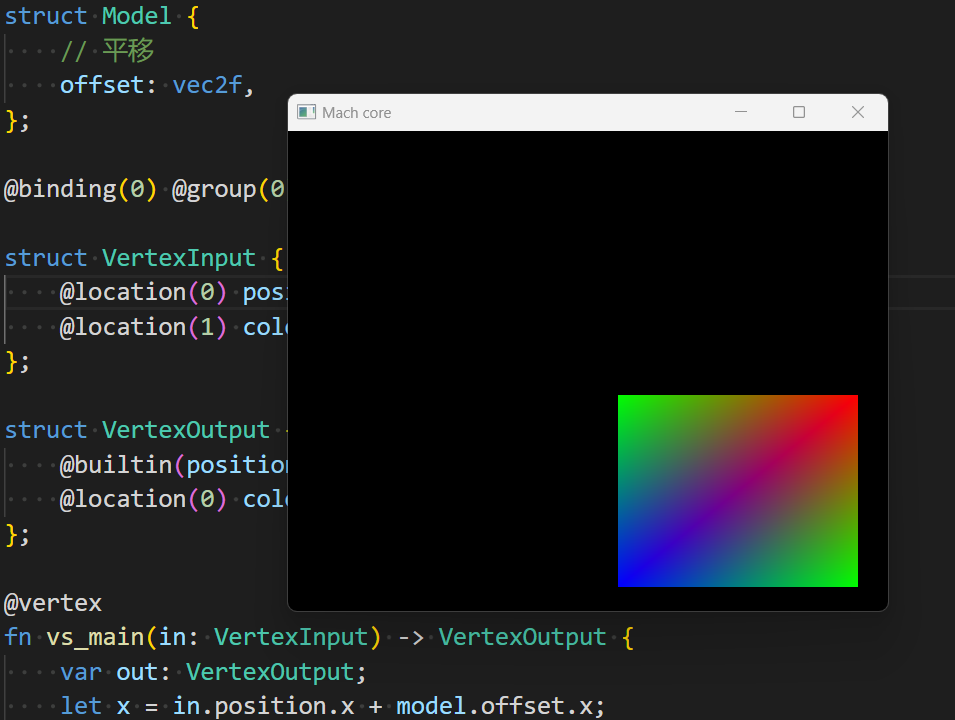
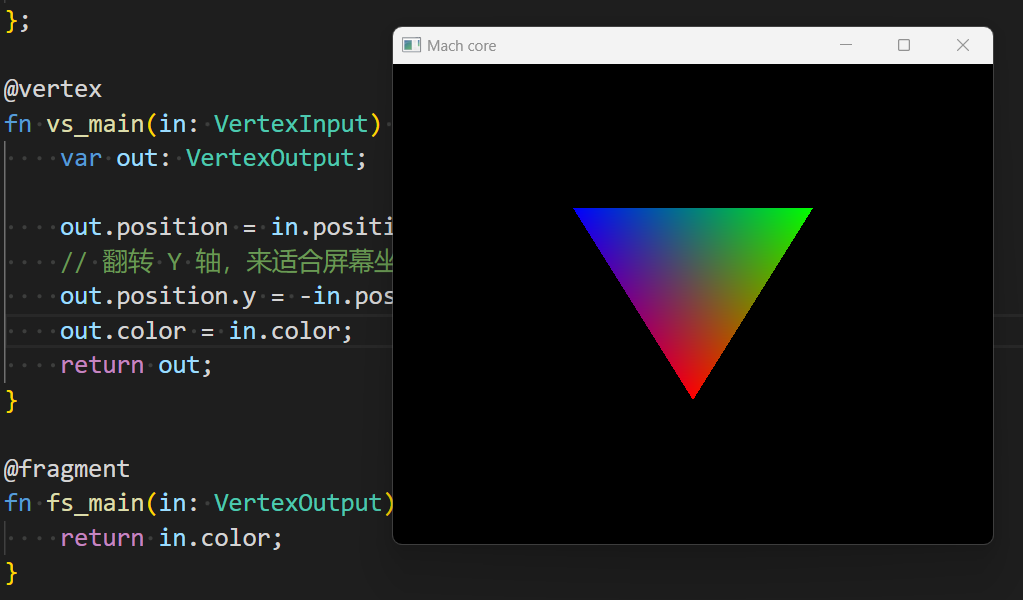
提交博客

diff --git a/2023/202312/0522-WebGPU-2D 翻转 Y 轴.md b/2023/202312/0522-WebGPU-2D 翻转 Y 轴.md
@@ -1,0 +1,202 @@
+# 0522-WebGPU-2D 翻转 Y 轴
+
+## 环境
+
+- Time 2024-05-17
+- Zig 0.12.0-dev.3180+83e578a18
+- mach 26b2351d4b04122d51c140b2d35325c02ccb0a5a
+
+## 前言
+
+### 说明
+
+参考资料：
+
+1. <https://github.com/hexops/mach/tree/main/src/core/examples>
+2. <https://webgpufundamentals.org/>
+
+### 目标
+
+WebGPU 坐标 Y 轴向上为正，屏幕坐标 Y 轴向下为正，所以翻转 Y 轴。
+
+## shader.wgsl
+
+```wgsl
+struct VertexInput {
+    @location(0) position: vec4f,
+    @location(1) color: vec4f,
+};
+
+struct VertexOutput {
+    @builtin(position) position: vec4f,
+    @location(0) color: vec4f,
+};
+
+@vertex
+fn vs_main(in: VertexInput) -> VertexOutput {
+    var out: VertexOutput;
+
+    out.position = in.position;
+    // 翻转 Y 轴，来适合屏幕坐标系
+    out.position.y = -in.position.y;
+    out.color = in.color;
+    return out;
+}
+
+@fragment
+fn fs_main(in: VertexOutput) -> @location(0) vec4f {
+    return in.color;
+}
+```
+
+## render.zig
+
+```zig
+const std = @import("std");
+const mach = @import("mach");
+
+pub const RenderContext = struct {
+    vertexBuffer: *mach.gpu.Buffer,
+    pipeline: *mach.gpu.RenderPipeline,
+};
+
+pub fn createRenderPipeline() RenderContext {
+    const device = mach.core.device;
+
+    const vertexData = [_]f32{
+        0.0,  0.4,  1.0, 0.0, 0.0, //
+        0.4,  -0.4, 0.0, 1.0, 0.0,
+        -0.4, -0.4, 0.0, 0.0, 1.0,
+    };
+
+    // 编译 shader
+    const source = @embedFile("shader.wgsl");
+    const module = device.createShaderModuleWGSL("shader.wgsl", source);
+    defer module.release();
+
+    // 创建顶点缓冲区
+    const vertexBuffer = device.createBuffer(&.{
+        .label = "vertex",
+        .usage = .{ .copy_dst = true, .vertex = true },
+        .size = @sizeOf(f32) * vertexData.len,
+    });
+
+    // 将 CPU 内存中的数据复制到 GPU 内存中
+    mach.core.queue.writeBuffer(vertexBuffer, 0, &vertexData);
+
+    const vertexLayout = mach.gpu.VertexBufferLayout.init(.{
+        .array_stride = @sizeOf(f32) * 5,
+        .attributes = &.{
+            .{ .format = .float32x2, .offset = 0, .shader_location = 0 },
+            .{ .format = .float32x3, .offset = @sizeOf(f32) * 2, .shader_location = 1 },
+        },
+    });
+
+    const vertex = mach.gpu.VertexState.init(.{
+        .module = module,
+        .entry_point = "vs_main",
+        .buffers = &.{vertexLayout},
+    });
+
+    // 片段着色器状态
+    const fragment = mach.gpu.FragmentState.init(.{
+        .module = module,
+        .entry_point = "fs_main",
+        .targets = &.{.{ .format = mach.core.descriptor.format }},
+    });
+
+    // 创建渲染管线
+    const descriptor = mach.gpu.RenderPipeline.Descriptor{
+        .fragment = &fragment,
+        .vertex = vertex,
+    };
+    const pipeline = device.createRenderPipeline(&descriptor);
+    return .{ .vertexBuffer = vertexBuffer, .pipeline = pipeline };
+}
+```
+
+## main.zig
+
+```zig
+const std = @import("std");
+const mach = @import("mach");
+const render = @import("render.zig");
+
+pub const App = @This();
+
+var gpa = std.heap.GeneralPurposeAllocator(.{}){};
+renderPipeline: *mach.gpu.RenderPipeline = undefined,
+vertexBuffer: *mach.gpu.Buffer = undefined,
+
+pub fn init(app: *App) !void {
+    try mach.core.init(.{
+        .title = "学习 WebGPU",
+        .size = .{ .width = 600, .height = 480 },
+    });
+    // 设置帧率
+    mach.core.setFrameRateLimit(30);
+    mach.core.setInputFrequency(30);
+
+    const renderContext = render.createRenderPipeline();
+    app.renderPipeline = renderContext.pipeline;
+    app.vertexBuffer = renderContext.vertexBuffer;
+}
+
+pub fn deinit(app: *App) void {
+    _ = app;
+    mach.core.deinit();
+    _ = gpa.deinit();
+}
+
+pub fn update(app: *App) !bool {
+    // 检查窗口是否需要关闭
+    var iterator = mach.core.pollEvents();
+    while (iterator.next()) |event| if (event == .close) return true;
+
+    const view = mach.core.swap_chain.getCurrentTextureView().?;
+    defer view.release();
+
+    const renderPass = mach.gpu.RenderPassDescriptor.init(.{
+        .color_attachments = &.{.{
+            .view = view,
+            .clear_value = std.mem.zeroes(mach.gpu.Color),
+            .load_op = .clear,
+            .store_op = .store,
+        }},
+    });
+
+    // 命令编码器
+    const encoder = mach.core.device.createCommandEncoder(null);
+    defer encoder.release();
+    const pass = encoder.beginRenderPass(&renderPass);
+    // 设置渲染管线
+    pass.setPipeline(app.renderPipeline);
+    pass.setVertexBuffer(0, app.vertexBuffer, 0, app.vertexBuffer.getSize());
+
+    pass.draw(3, 1, 0, 0);
+    pass.end();
+    pass.release();
+
+    var command = encoder.finish(null);
+    defer command.release();
+
+    // 提交命令
+    mach.core.queue.submit(&.{command});
+    mach.core.swap_chain.present();
+
+    // 不退出渲染循环
+    return false;
+}
+```
+
+## 效果
+
+![2D 翻转 Y 轴][1]
+
+## 总结
+
+将坐标系的 Y 轴进行翻转。
+
+[1]: images/webgpu18.png
+
+## 附录

diff --git a/2023/202312/0523-WebGPU-2D 平移.md b/2023/202312/0523-WebGPU-2D 平移.md
@@ -1,4 +1,4 @@
-# 0522-WebGPU-2D 平移
+# 0523-WebGPU-2D 平移
 
 ## 环境
 
@@ -13,11 +13,11 @@
 参考资料：
 
 1. <https://github.com/hexops/mach/tree/main/src/core/examples>
-2. <https://eliemichel.github.io/LearnWebGPU/index.html>
+2. <https://webgpufundamentals.org/>
 
 ### 目标
 
-将矩形在 2D 平面内进行平移。
+将三角形在 2D 平面内进行平移。
 
 ## shader.wgsl
 
@@ -42,10 +42,11 @@ struct VertexOutput {
 @vertex
 fn vs_main(in: VertexInput) -> VertexOutput {
     var out: VertexOutput;
+    // 平移
     let x = in.position.x + model.offset.x;
-    // 翻转 y 轴
-    let y = in.position.y - model.offset.y;
-    out.position = vec4f(x, y, in.position.z, in.position.w);
+    let y = in.position.y + model.offset.y;
+    // 翻转 Y 轴，来适合屏幕坐标系
+    out.position = vec4f(x, -y, in.position.z, in.position.w);
     out.color = in.color;
     return out;
 }
@@ -56,12 +57,16 @@ fn fs_main(in: VertexOutput) -> @location(0) vec4f {
 }
 ```
 
+## render.zig
+
+无变化。
+
 ## main.zig
 
 ```zig
 const std = @import("std");
 const mach = @import("mach");
-const mesh = @import("mesh.zig");
+const render = @import("render.zig");
 
 pub const App = @This();
 const Model = struct {
@@ -74,7 +79,10 @@ vertexBuffer: *mach.gpu.Buffer = undefined,
 bindGroup: *mach.gpu.BindGroup = undefined,
 
 pub fn init(app: *App) !void {
-    try mach.core.init(.{ .size = .{ .width = 600, .height = 480 } });
+    try mach.core.init(.{
+        .title = "学习 WebGPU",
+        .size = .{ .width = 600, .height = 480 },
+    });
     // 设置帧率
     mach.core.setFrameRateLimit(30);
     mach.core.setInputFrequency(30);
@@ -84,10 +92,13 @@ pub fn init(app: *App) !void {
         .usage = .{ .copy_dst = true, .uniform = true },
         .size = @sizeOf(Model),
     });
-    const modelData = Model{ .offset = .{ 0.5, 0.5 } };
+    const modelData = Model{ .offset = .{ 0.6, 0.6 } };
     device.getQueue().writeBuffer(modelBuffer, 0, &modelData.offset);
 
-    app.renderPipeline = createRenderPipeline(app);
+    const renderContext = render.createRenderPipeline();
+    app.renderPipeline = renderContext.pipeline;
+    app.vertexBuffer = renderContext.vertexBuffer;
+
     const Entry = mach.gpu.BindGroup.Entry;
     app.bindGroup = device.createBindGroup(
         &mach.gpu.BindGroup.Descriptor.init(.{
@@ -97,62 +108,6 @@ pub fn init(app: *App) !void {
             },
         }),
     );
-}
-
-fn createRenderPipeline(app: *App) *mach.gpu.RenderPipeline {
-    const device = mach.core.device;
-
-    const vertexData = [_]f32{
-        0.4,  0.4,  1.0, 0.0, 0.0, //
-        0.4,  -0.4, 0.0, 1.0, 0.0,
-        -0.4, -0.4, 0.0, 0.0, 1.0,
-        -0.4, -0.4, 0.0, 0.0, 1.0,
-        -0.4, 0.4,  0.0, 1.0, 0.0,
-        0.4,  0.4,  1.0, 0.0, 0.0,
-    };
-
-    // 编译 shader
-    const source = @embedFile("shader.wgsl");
-    const module = device.createShaderModuleWGSL("shader.wgsl", source);
-    defer module.release();
-
-    // 创建顶点缓冲区
-    app.vertexBuffer = device.createBuffer(&.{
-        .label = "vertex",
-        .usage = .{ .copy_dst = true, .vertex = true },
-        .size = @sizeOf(f32) * vertexData.len,
-    });
-
-    // 将 CPU 内存中的数据复制到 GPU 内存中
-    mach.core.queue.writeBuffer(app.vertexBuffer, 0, &vertexData);
-
-    const vertexLayout = mach.gpu.VertexBufferLayout.init(.{
-        .array_stride = @sizeOf(f32) * 5,
-        .attributes = &.{
-            .{ .format = .float32x2, .offset = 0, .shader_location = 0 },
-            .{ .format = .float32x3, .offset = @sizeOf(f32) * 2, .shader_location = 1 },
-        },
-    });
-
-    const vertex = mach.gpu.VertexState.init(.{
-        .module = module,
-        .entry_point = "vs_main",
-        .buffers = &.{vertexLayout},
-    });
-
-    // 片段着色器状态
-    const fragment = mach.gpu.FragmentState.init(.{
-        .module = module,
-        .entry_point = "fs_main",
-        .targets = &.{.{ .format = mach.core.descriptor.format }},
-    });
-
-    // 创建渲染管线
-    const descriptor = mach.gpu.RenderPipeline.Descriptor{
-        .fragment = &fragment,
-        .vertex = vertex,
-    };
-    return device.createRenderPipeline(&descriptor);
 }
 
 pub fn deinit(app: *App) void {
@@ -187,7 +142,7 @@ pub fn update(app: *App) !bool {
     pass.setVertexBuffer(0, app.vertexBuffer, 0, app.vertexBuffer.getSize());
     pass.setBindGroup(0, app.bindGroup, &.{});
 
-    pass.draw(6, 2, 0, 0);
+    pass.draw(3, 1, 0, 0);
     pass.end();
     pass.release();
 
@@ -211,8 +166,8 @@ pub fn update(app: *App) !bool {
 
 ## 总结
 
-将 2D 矩形平移到右下角。
+将 2D 三角形平移到右下角。
 
-[1]: images/webgpu18.png
+[1]: images/webgpu19.png
 
 ## 附录
